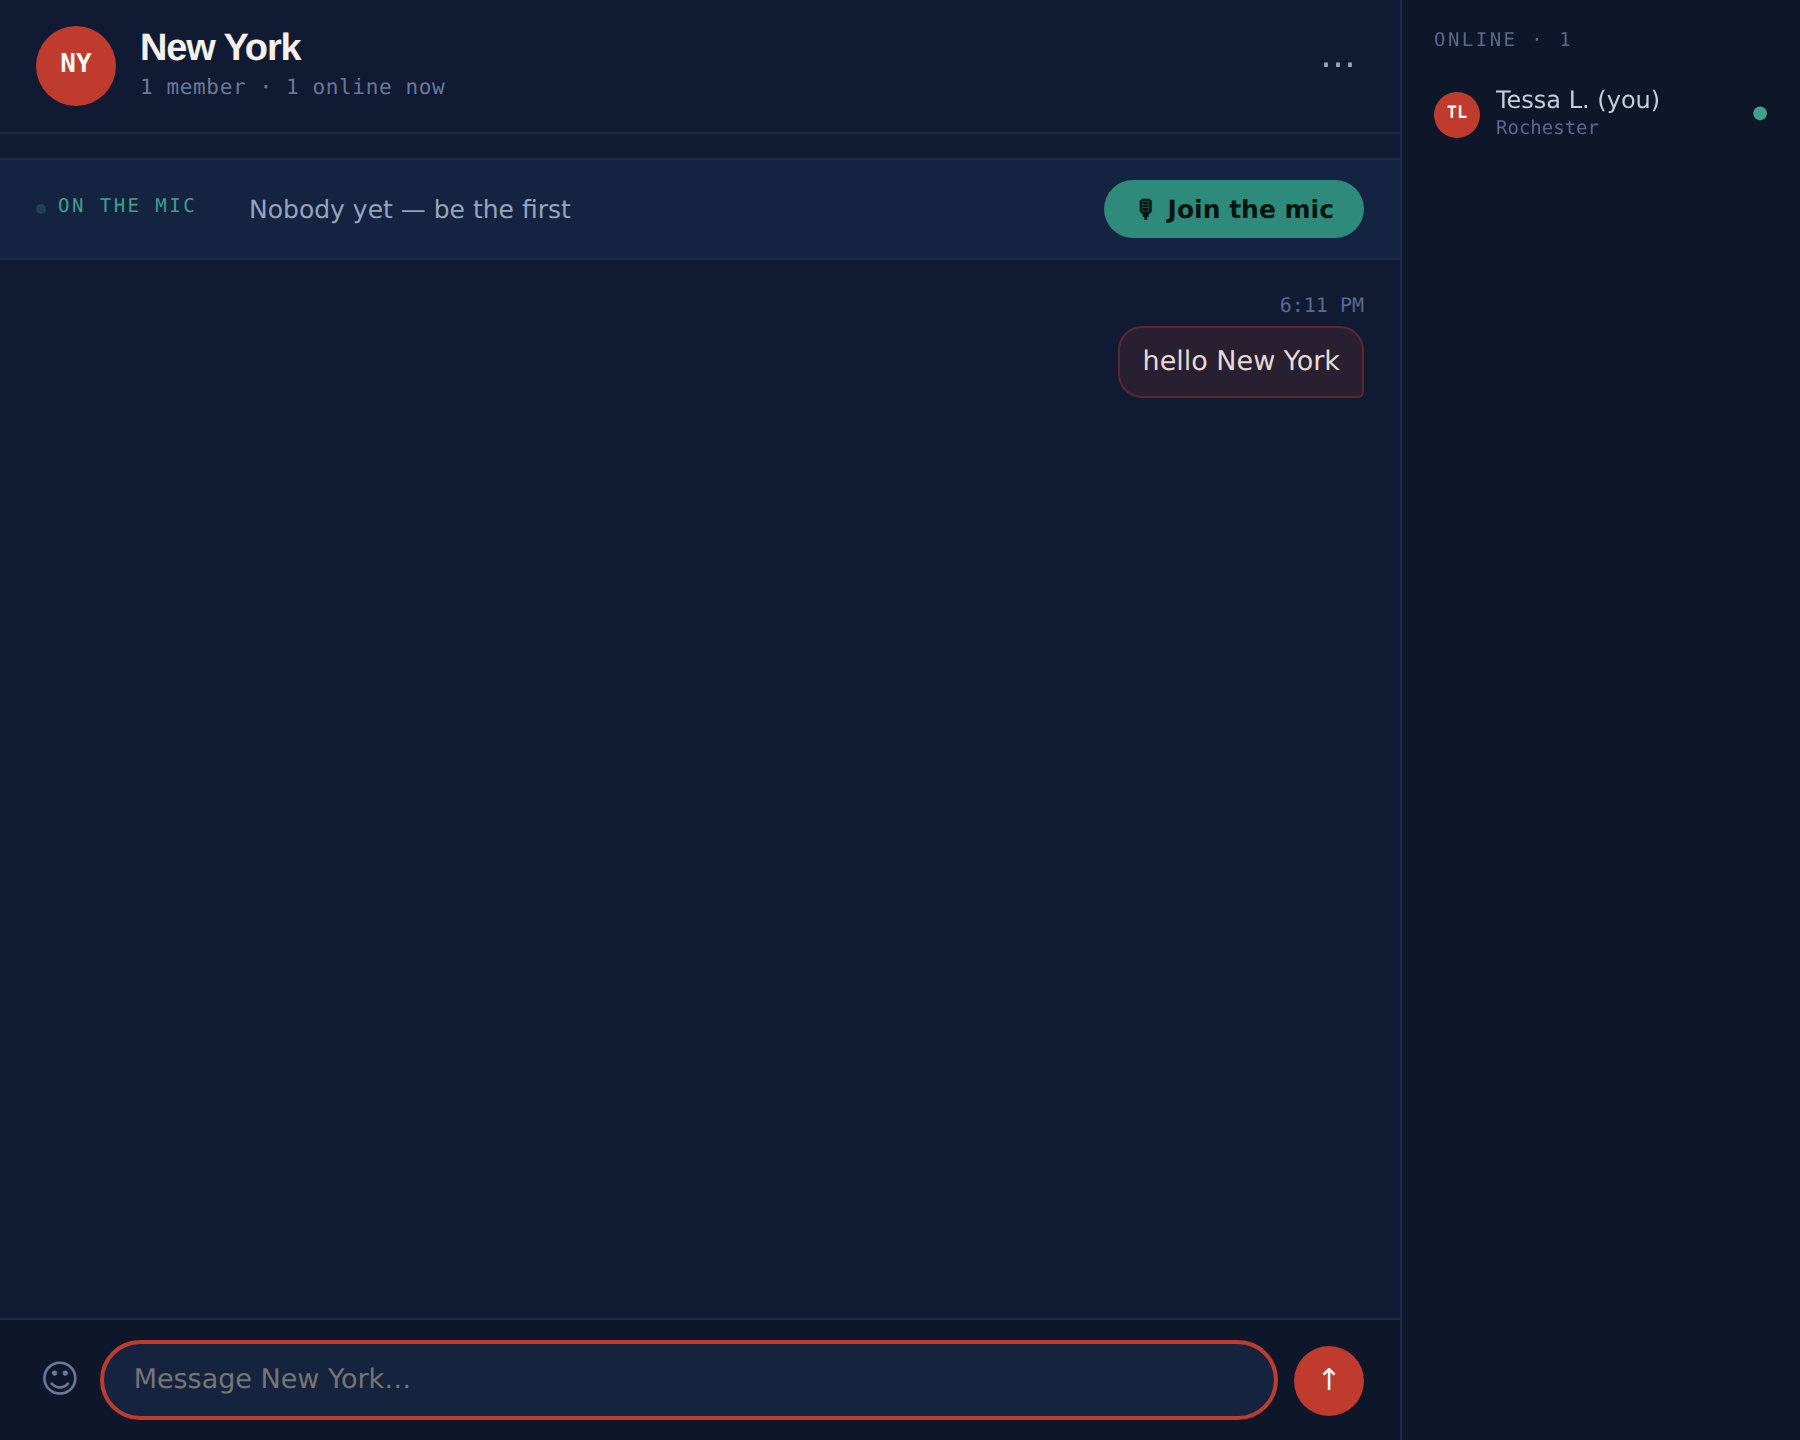
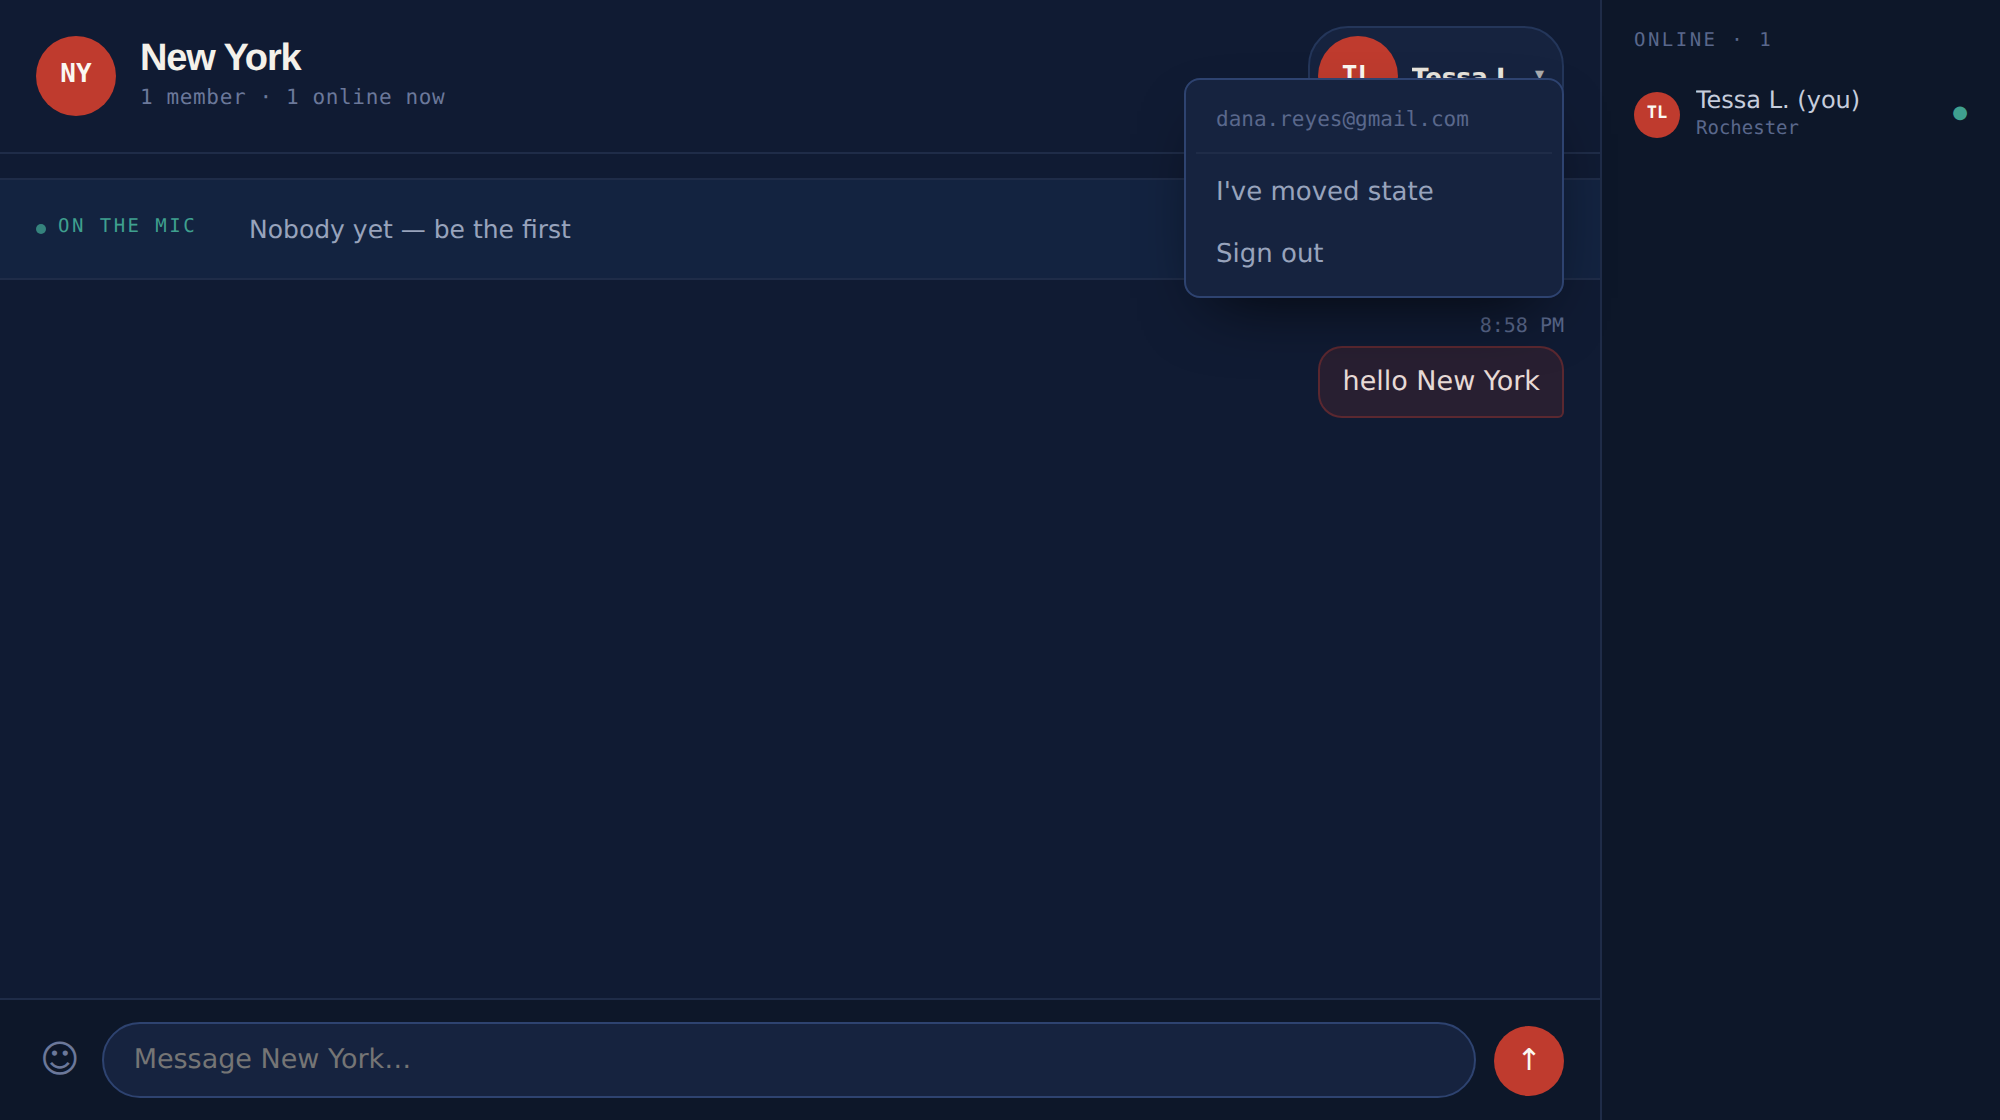
Show who you are signed in as, with the way out beside it
Signing out was hidden behind a row of dots nobody would think to press.
The room header now carries your own avatar and name, and opening it
shows the Google address you are signed in as — so it is obvious both who
the app thinks you are and how to stop being them. On narrow screens the
name drops away and the avatar alone remains.

Claude-Session: https://claude.ai/code/session_01Dn3QxfasG2xg4YTEG3iPH6

diff --git a/app.css b/app.css
@@ -203,8 +203,17 @@ button,input,select,textarea{font-family:inherit}
   border-radius:12px 12px 3px 12px}
 .sys{font-family:var(--mono);font-size:10.5px;color:var(--faint2);text-align:center;padding:2px 0}
 .sys.pin{color:var(--gold)}
-/* ⋯ menu in the room header */
+/* Your own name and face in the corner — where people look for the way out. */
 .menuwrap{position:relative;display:flex}
+.mebtn{display:flex;align-items:center;gap:7px;background:none;border:1px solid transparent;
+  border-radius:20px;padding:4px 9px 4px 4px;cursor:pointer;color:var(--dim);max-width:190px}
+.mebtn:hover{background:var(--panel);border-color:var(--edge);color:var(--text)}
+.mebtn .men{font-size:12.5px;font-weight:600;letter-spacing:-.01em;overflow:hidden;
+  text-overflow:ellipsis;white-space:nowrap}
+.mebtn .cev{font-size:9px;opacity:.7;flex:0 0 auto}
+.menu .mhead{font-family:var(--mono);font-size:10.5px;color:var(--faint2);padding:7px 10px 8px;
+  border-bottom:1px solid var(--line);margin-bottom:4px;overflow-wrap:anywhere}
+@media (max-width:520px){.mebtn .men{display:none}}
 .menu{position:absolute;right:0;top:26px;background:var(--panel);border:1px solid var(--line2);
   border-radius:8px;padding:5px;display:flex;flex-direction:column;min-width:190px;z-index:20;
   box-shadow:0 14px 34px -14px rgba(0,0,0,.8)}

diff --git a/index.html b/index.html
@@ -86,10 +86,15 @@
             <span class="meta" id="tCt"></span>
           </div>
           <div class="menuwrap">
-            <button class="back" type="button" id="meBtn2" aria-label="You" aria-expanded="false">⋯</button>
+            <button class="mebtn" type="button" id="meBtn2" aria-expanded="false">
+              <span class="av xs" id="meAv"></span>
+              <span class="men" id="meName">You</span>
+              <span class="cev" aria-hidden="true">▾</span>
+            </button>
             <div class="menu" id="meMenu" hidden>
+              <div class="mhead" id="meMail"></div>
               <button type="button" id="mMove">I've moved state</button>
-              <button type="button" id="mOut">Sign out of this device</button>
+              <button type="button" id="mOut">Sign out</button>
             </div>
           </div>
         </div>

diff --git a/app.js b/app.js
@@ -326,6 +326,14 @@
 
     $('ci').placeholder = 'Message ' + s.n + '…';
     setTitle();
+
+    if (me) {
+      avatar($('meAv'), me);
+      $('meName').textContent = me.name;
+      var mail = db.email && db.email();
+      $('meMail').textContent = mail || 'Signed in on this device only';
+    }
+
     show('vRoom');
 
     stopMessages(); stopPresence();
